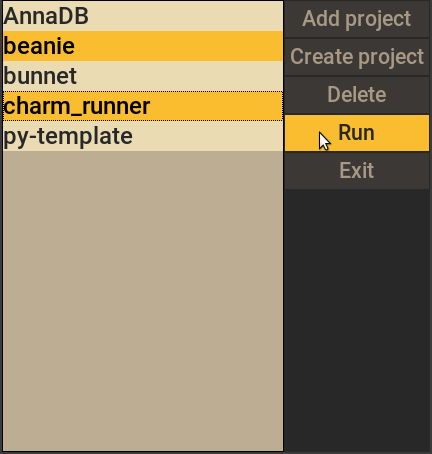
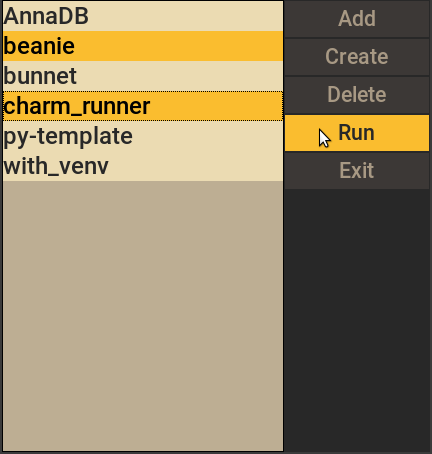
update: create project with venv

diff --git a/charm_runner/app.py b/charm_runner/app.py
@@ -1,6 +1,7 @@
 import datetime
 import subprocess
 import tkinter
+import venv
 from enum import Enum
 from pathlib import Path
 from tkinter import filedialog, EXTENDED
@@ -91,8 +92,8 @@ class App:
         )
         self.button_frame.grid(column=1, row=0, sticky=tkinter.N)
         self.buttons = []
-        self.create_button("Add project", self.add_project)
-        self.create_button("Create project", self.create_project)
+        self.create_button("Add", self.add_project)
+        self.create_button("Create", self.create_project)
         self.create_button("Delete", self.delete_from_db)
         self.create_button("Run", self.run_in_pycharm)
         self.create_button("Exit", self.main.destroy)
@@ -147,13 +148,14 @@ class App:
         if isinstance(directory, str):
             dir_path = Path(directory)
             project_name = dir_path.name
-            output_dir = str(dir_path.parent.absolute())
+            output_dir = dir_path.parent.absolute()
             cookiecutter(
                 "https://github.com/roman-right/py-template",
                 no_input=True,
-                output_dir=output_dir,
+                output_dir=str(output_dir),
                 extra_context={"project_name": project_name},
             )
+            venv.create(dir_path.absolute() / "venv", with_pip=True)
             project = Project(
                 name=project_name,
                 path=directory,
